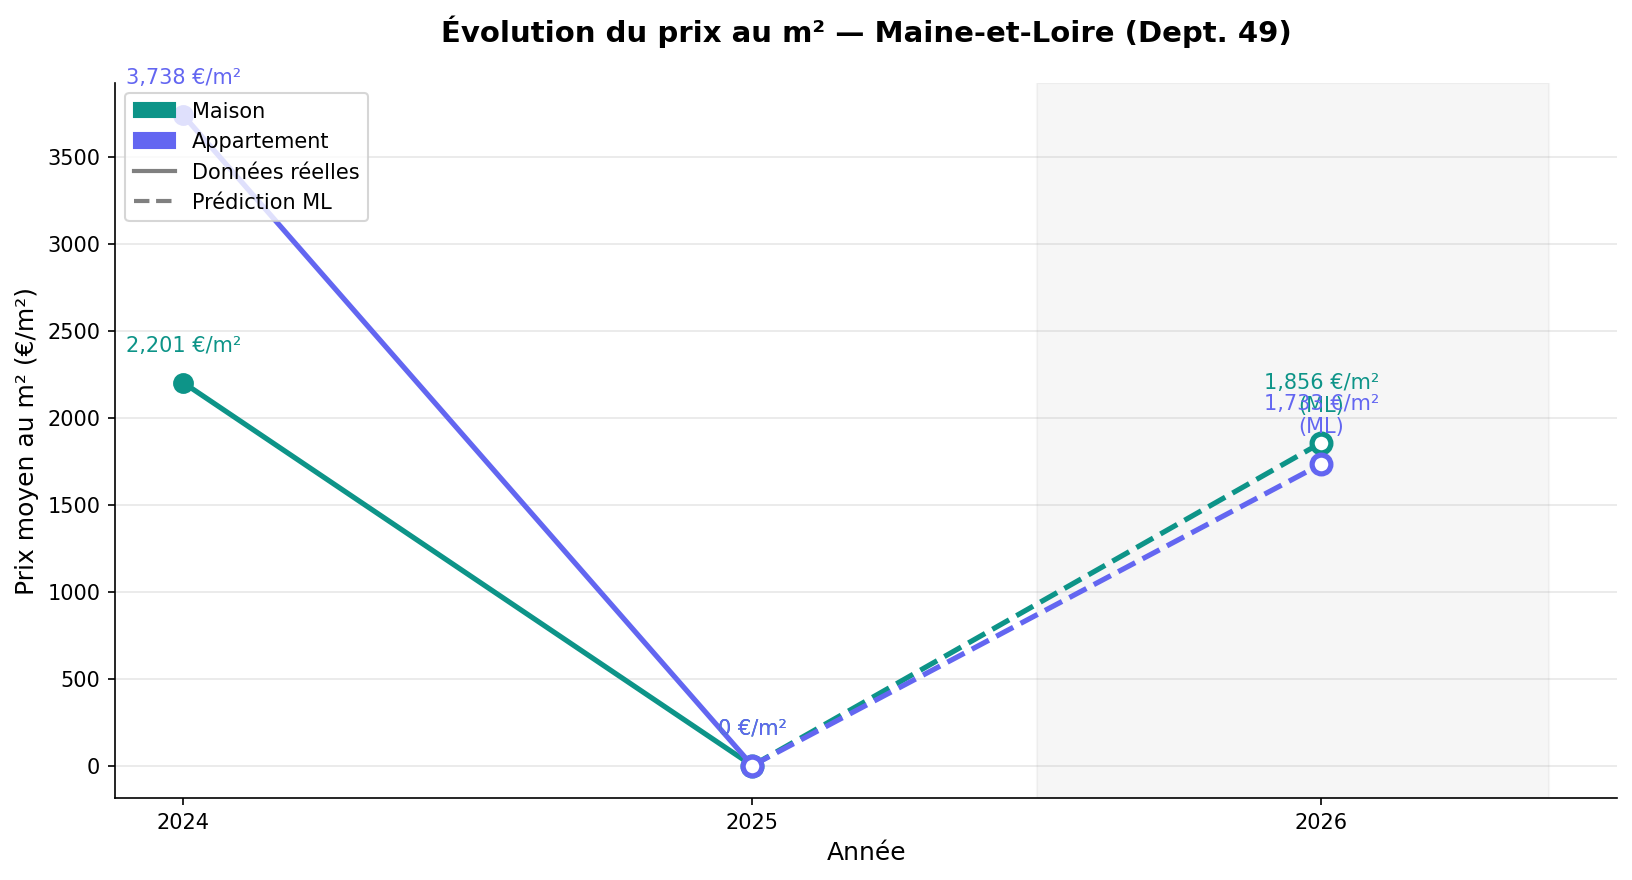
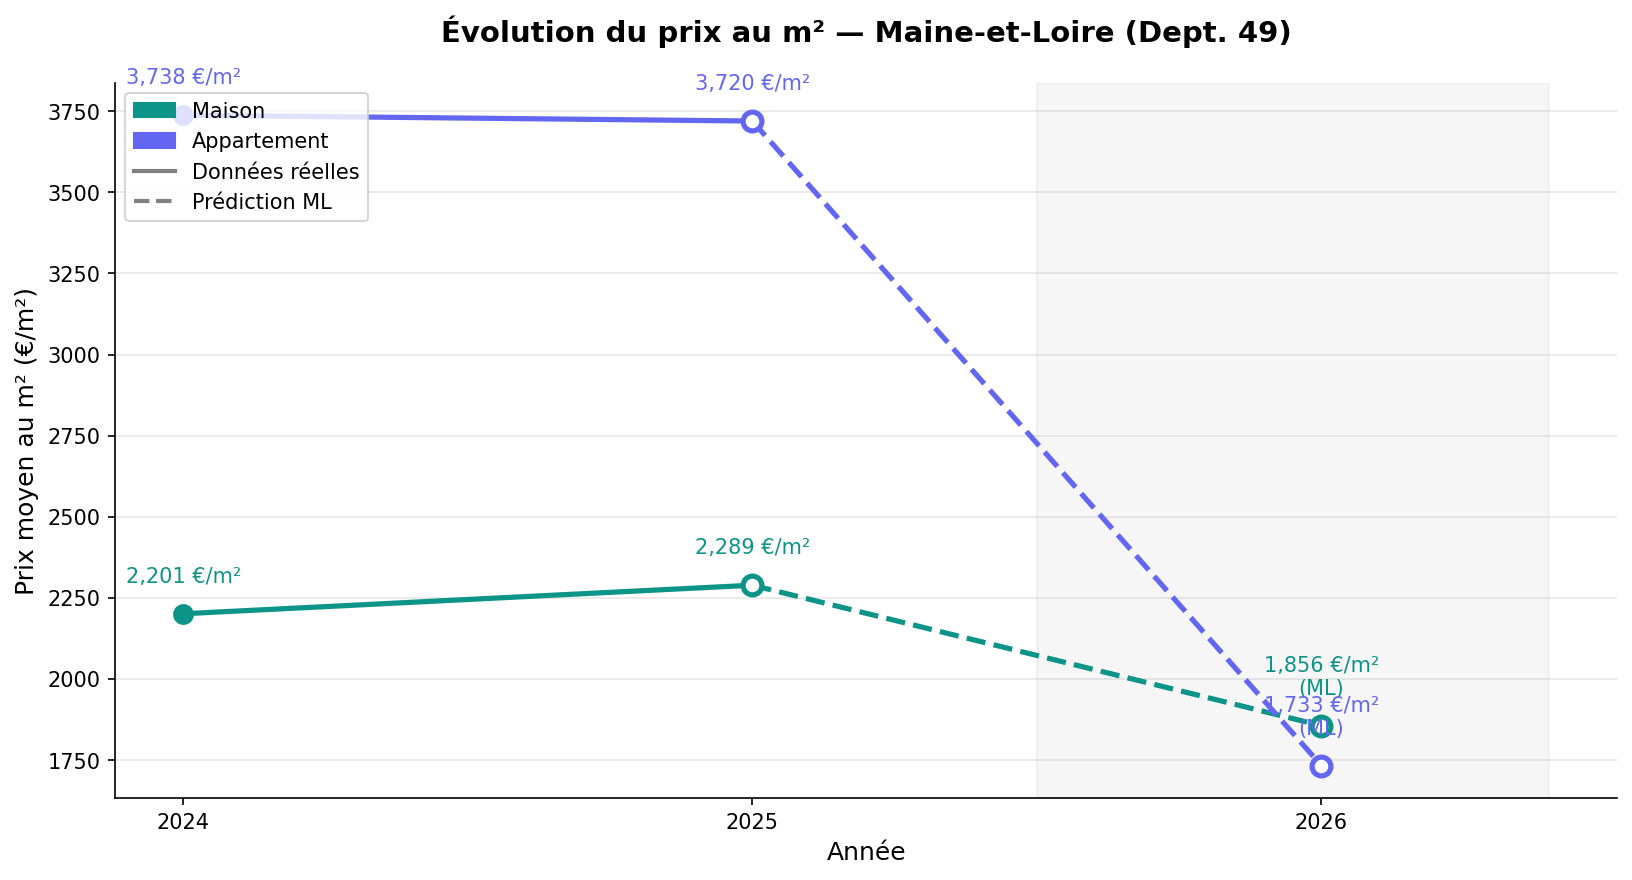
fix price data csv

diff --git a/app.py b/app.py
@@ -88,7 +88,7 @@ st.markdown("""
 @st.cache_data
 def load_data():
     # On lit les deux fichiers CSV séparément
-   df24 = pd.read_csv(config.CSV_2024)
+    df24 = pd.read_csv(config.CSV_2024)
     colonnes = list(df24.columns)
     df25 = pd.read_csv(config.CSV_2025, header=None, names=colonnes)
 